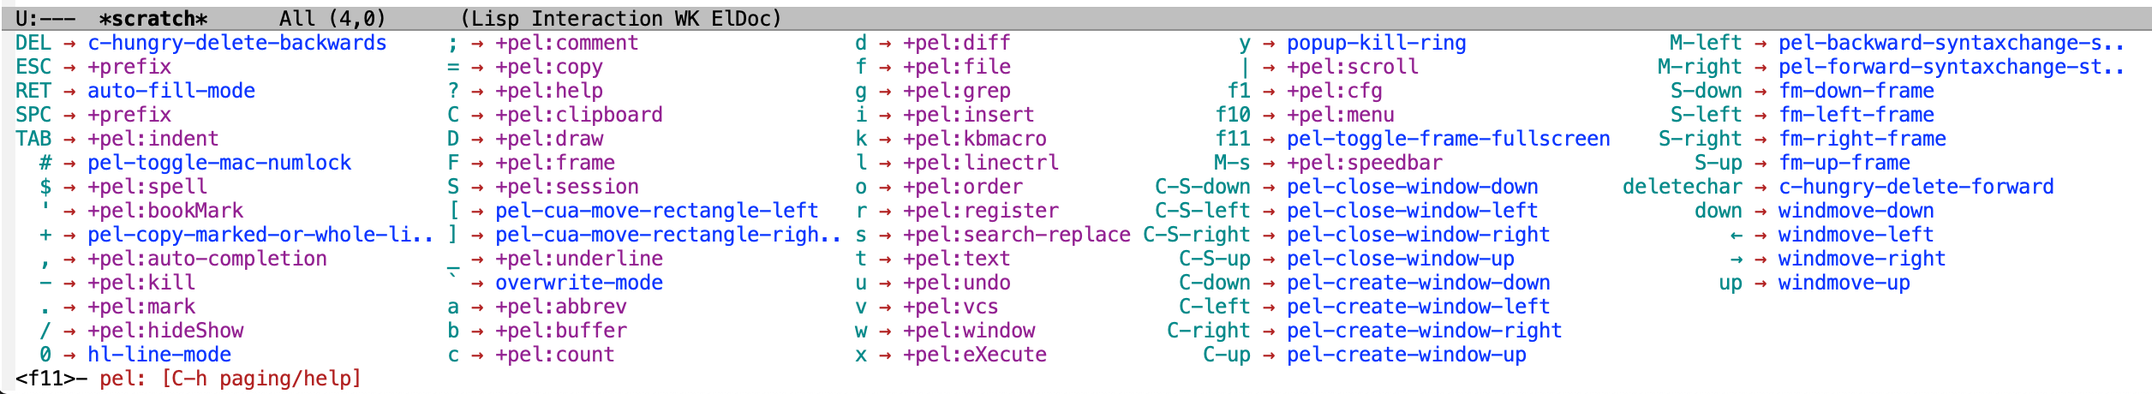
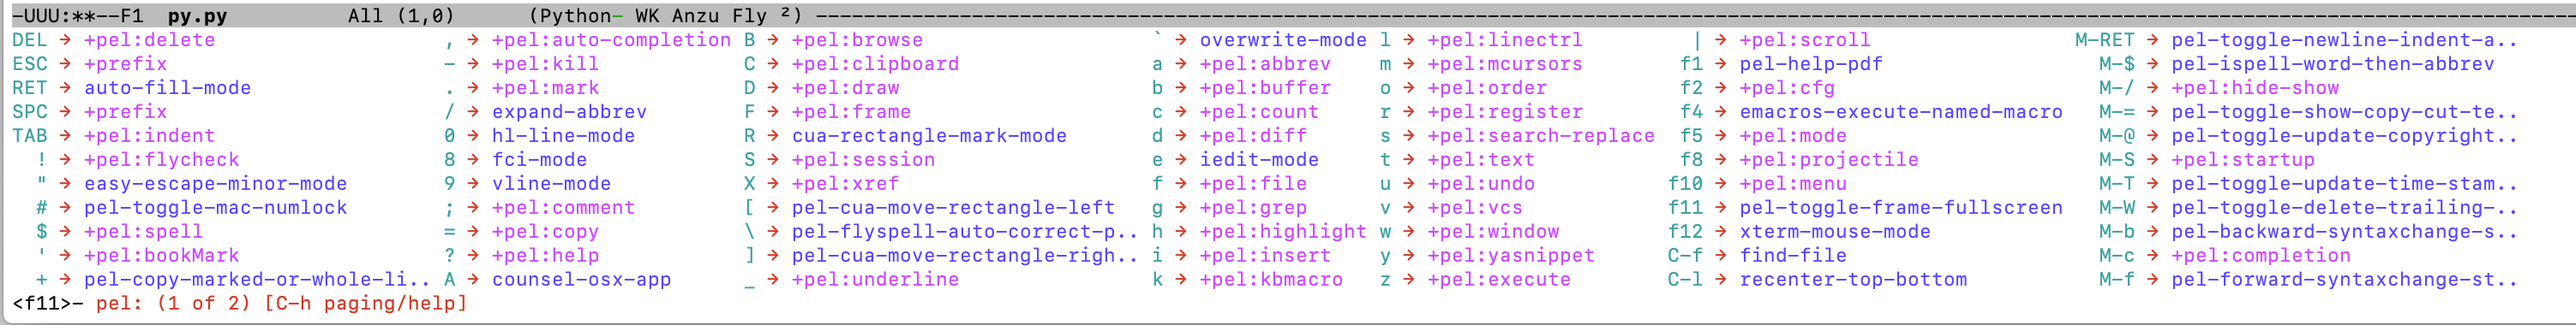
More info on PEL keys and help.  Scale some image.

Changed region(s): [[0.0, 0.0, 1.0, 1.0], [0.8073, 0.8395, 0.9626, 0.8974]]

diff --git a/doc/pel-manual.rst b/doc/pel-manual.rst
@@ -4,7 +4,7 @@ PEL -- Pragmatic Environment Library for Emacs
 
 :URL: https://github.com/pierre-rouleau/pel/blob/master/doc/pel-manual.rst
 :Project:  `PEL Project home page`_
-:Modified: 2021-08-04 09:23:49, updated by Pierre Rouleau.
+:Modified: 2021-08-04 11:58:40, updated by Pierre Rouleau.
 :License:
     Copyright (c) 2020, 2021 Pierre Rouleau <prouleau001@gmail.com>
 
@@ -1119,7 +1119,8 @@ customization tree and go over all features that PEL can activate.
 Here's a screen capture of that activity:
 
 
-.. image:: res/pel-start-customizing.png
+.. figure:: res/pel-start-customizing.png
+   :scale: 50 %
 
 
 Access PEL Customization Root
@@ -1131,7 +1132,8 @@ execute the ``pel-cfg`` command by typing the ``<f11> <f2> P !`` key sequence.
 When running Emacs in graphics mode, you'll see something like this:
 
 
-.. image:: res/pel-cfg.png
+.. figure:: res/pel-cfg.png
+   :scale: 50 %
 
 Emacs opens a buffer in ``Custom-mode`` and shows the top level of PEL
 configuration.  PEL has a large tree of customization groups, each holding
@@ -1141,7 +1143,8 @@ All PEL package control user options have a name that starts with ``pel-use-``
 and they are part of the ``pel-package-use`` customization group.  If you select
 that group Emacs will open it and you will see something like this:
 
-.. image:: res/pel-cfg-package.png
+.. figure:: res/pel-cfg-package.png
+   :scale: 50 %
 
 It shows the top level group for different types of packages, grouped by
 functionality type.
@@ -1160,7 +1163,8 @@ might be automatically downloaded when required.
 Note:  In Emacs Lisp the value **t**, is the symbol for truth and **nil** is
 used for the empty list and represent falsehood.
 
-.. image:: res/pel-cfg-all-use.png
+.. figure:: res/pel-cfg-all-use.png
+   :scale: 50 %
 
 Now you are done! 😀
 
@@ -1513,7 +1517,8 @@ With the above code in your init.el file, you can then execute the PEL command
 ``pel-show-init-time`` (or using the ``<M-S-f9>`` keystroke for it) Emacs will
 open 2 buffers and will show something like this:
 
-.. image:: res/pel-benchmark.png
+.. figure:: res/pel-benchmark.png
+   :scale: 50 %
 
 This is a snapshot taken on GNU Emacs running in terminal mode on a 2014 macOS
 computer with PEL running with 96 packages selected by customization giving 156
@@ -1522,7 +1527,8 @@ lines inside the benchmark-init buffers.
 Here's another snapshot taken after installing PEL on Mint 20 Linux running
 inside Parallels Desktop VM under macOS host:
 
-.. image:: res/pel-benchmark-mint20.png
+.. figure:: res/pel-benchmark-mint20.png
+   :scale: 50 %
 
 
 .. _example/init/init-4.el: ../example/init/init-4.el
@@ -1763,25 +1769,116 @@ Key Binding Help
 ================
 
 
-By default, PEL configuration activates the which-key_ external package so that
-when you hit a key prefix, like **F11** the list of comments and their key
-bindings will show up at the bottom of the Emacs screen, in what is called the
-echo area.  This, like everything PEL uses, can be turned off by customization
-(in this case it's the user option called ``pel-use-which-key``.
+**Using the which-keys package**
 
-You can also see the list of commands without it. For example,
-you can see PEL's use of the **F11** function key by hitting in sequence the
-**F11** key quickly followed by the **F1** key.  Emacs will list PEL's **F11**
-key bindings inside the ``*Help*`` buffer.
+By default, PEL configuration activates the which-key_ external package.
+When ``which-key-mode`` is active Emacs displays a list of key bindings after
+you type a `prefix key`_.
 
-You can also open the local copy of the  PDF *reference* sheet file that
-describes the commands and key bindings accessible through a given key prefix by
-using the **F1** key inside that key prefix.
-For example, as described in section `PEL Help Support`_, the PEL key prefix
+For example, after typing the **F11** key, wait a little and Emacs should
+display something like the following at the bottom of your Emacs window,
+called the echo area:
+
+.. figure:: res/pel-which-key.png
+   :scale: 30 %
+
+This lists all keys and further key prefixes. If the list is long as it's the
+case here type ``C-h`` to show a menu of possible actions and then you will see
+you can type ``n`` to display the next set of key bindings.  As soon as you
+hit a key related to a command the which-key window is closed.
+
+If you type command keys fast enough the which-key window does not show up.
+You can control which-key parameters through Emacs customization.  Use one of
+the following commands to access which-key customization group:
+
+- ``M-x customization-group RET which-key RET``
+- ``<f11> <f2> g which-key RET``
+- ``<f11> ? <f3> 5``
+
+If the which-key_ package is not enabled, you can enable it by setting the
+`pel-use-which-key`` user-option to **t**.  You can access it by opening the
+customization buffer for help by typing the ``<f11> ? <f2>`` key sequence.
+
+Once set, it must be activated: execute ``pel-init`` by typing ``M-x pel-init
+RET`` to re-initialize PEL.
+
+
+**Displaying keys without the which-keys package**
+
+You can also see the list of commands without using the which-keys
+package. For example, you can see PEL's use of the **F11** function key by
+hitting in sequence the **F11** key quickly followed by the **C-h** key.  Emacs
+will list PEL's **F11** key bindings inside the ``*Help*`` buffer.
+
+**Open the PEL PDF reference sheet**
+
+Open the local copy of the PDF *reference* sheet file that describes the
+commands and key bindings accessible through a given key prefix by using the
+**F1** key inside that key prefix.
+
+The following table is a partial list of the key sequences you can use to open
+a specific PEL PDF file.
+
+============================= ===================== ==========================
+Context                       Key sequence           Opened PEL PDF
+============================= ===================== ==========================
+From any buffer               ``<f11> <f1>``        `PEL Index PDF`_
+From any buffer               ``<f11> ? <f1>``      `Help PDF`_
+From any buffer               ``<f11> ! <f1>``      `Syntax Check PDF`_
+From any buffer               ``<f11> M-c <f1>``    `Input Completion PDF`_
+From any buffer               ``<f11> SPC c <f1>``  `C language PDF`_
+From a C buffer               ``<f12> <f1>``        `C language PDF`_
+From any buffer               ``<f11> SPC e <f1>``  `Erlang language PDF`_
+From a Erlang buffer          ``<f12> <f1>``        `Erlang language PDF`_
+============================= ===================== ==========================
+
+
+As listed above and inside the `PEL Help Support`_, the PEL key prefix
 for help and information commands is **pel:help** bound to the ``<f11> ?`` key
 sequence.  To open the `HELP`_ PDF file, type ``<f11> ? <f1>``.
-Not all PEL key prefixes have this key, but most have.
 
+Most PEL key prefixes have a ``<f1>`` key that opens the PDF describing the
+commands accessible through that key prefix.  This includes the PDF that
+describe support for a major mode like support for programming languages.  To
+access the PDF when the current buffer is using that major mode the keys
+sequence is always ``<f12> <f1>``.  If you want to access the PDF from a
+buffer that is not in the specific major mode type ``<f11> SPC`` and wait for
+the list of major modes to appear.  Then select the key for the major mode and
+then complete it with the ``<f1>`` key.
+
+
+**Open the PEL PDF files in the browser**
+
+By default, PEL opens the PEL PDF files using the PDF reader application
+available on your operating system, for example Preview in macOS.
+
+The PDF files are filled with hyperlinks to other PEL PDF files and various
+topics.  Navigating through these hyperlinks with such an application may be
+cumbersome.
+
+This is why PEL provides the ability to open PEL PDF files directly in
+your local browser.  There are several ways to do that:
+
+- Type an argument key (like ``C-u`` or ``M--``) just before typing the key
+  sequence. For example typing ``C-u <f11> <f1>`` or ``M-- <f11> <f1>`` opens
+  the `PEL Index PDF`_ raw PDF from Github inside your browser.
+- You can invert the meaning of the argument key presence such that typing
+  ``<f11> <f1>`` opens the Github file in your browser and ``C-u <f11> <f1>``
+  opens your local PDF file.  For that set the ``pel-flip-help-pdf-arg``
+  user-option to **t**.
+  You can access its customization buffer with ``<f11> ? <f2>``.
+
+
+For the best user experience use a web browser that can render PDF
+files inline, like the excellent Mozilla Firefox [#firefox]_ browser version
+78 or later.
+
+To force PEL to use Firefox even if your default web browser is something
+else, set the ``pel-browser-used`` user-option to ``'firefox``.
+You can access its customization buffer with ``<f11> ? <f2>``.
+
+
+.. _prefix key: https://www.gnu.org/software/emacs/manual/html_node/elisp/Prefix-Keys.html
 
 .. -----------------------------------------------------------------------------
 
@@ -5431,6 +5528,7 @@ Emacs packages and more tables will describe how to use them.
 .. _Highlight:                                https://raw.githubusercontent.com/pierre-rouleau/pel/master/doc/pdf/highlight.pdf
 .. _Hooks:                                    https://raw.githubusercontent.com/pierre-rouleau/pel/master/doc/pdf/hooks.pdf
 .. _Indentation:                              https://raw.githubusercontent.com/pierre-rouleau/pel/master/doc/pdf/indentation.pdf
+.. _Input Completion PDF:
 .. _Input Completion:                         https://raw.githubusercontent.com/pierre-rouleau/pel/master/doc/pdf/completion-input.pdf
 .. _Input Method:                             https://raw.githubusercontent.com/pierre-rouleau/pel/master/doc/pdf/input-method.pdf
 .. _Inserting Text:                           https://raw.githubusercontent.com/pierre-rouleau/pel/master/doc/pdf/inserting-text.pdf
@@ -5458,6 +5556,7 @@ Emacs packages and more tables will describe how to use them.
 .. _Sorting:                                  https://raw.githubusercontent.com/pierre-rouleau/pel/master/doc/pdf/sorting.pdf
 .. _Speedbar:                                 https://raw.githubusercontent.com/pierre-rouleau/pel/master/doc/pdf/speedbar.pdf
 .. _Spell Checking:                           https://raw.githubusercontent.com/pierre-rouleau/pel/master/doc/pdf/spell-checking.pdf
+.. _Syntax Check PDF:
 .. _Syntax Check:                             https://raw.githubusercontent.com/pierre-rouleau/pel/master/doc/pdf/syntax-checking.pdf
 .. _Templates:                                https://raw.githubusercontent.com/pierre-rouleau/pel/master/doc/pdf/templates.pdf
 .. _Text-modes:                               https://raw.githubusercontent.com/pierre-rouleau/pel/master/doc/pdf/text-modes.pdf
@@ -5480,14 +5579,16 @@ Emacs packages and more tables will describe how to use them.
 .. _Modifier Keys:                            https://raw.githubusercontent.com/pierre-rouleau/pel/master/doc/pdf/modifier-keys.pdf
 .. _Apple-Script:                             https://raw.githubusercontent.com/pierre-rouleau/pel/master/doc/pdf/pl-applescript.pdf
 ..  C++
-..  C
+.. _C Language PDF:                           https://raw.githubusercontent.com/pierre-rouleau/pel/master/doc/pdf/pl-c.pdf
+
 ..  Common Lisp
 .. _Emacs Lisp Types:                         https://raw.githubusercontent.com/pierre-rouleau/pel/master/doc/pdf/emacs-lisp-types.pdf
 .. _Lispy mode support:                       https://raw.githubusercontent.com/pierre-rouleau/pel/master/doc/pdf/plm-lispy.pdf
 ..  D
 ..  elixir
 ..  Emacs Lisp
-..  erlang
+..  _Erlang Language PDF:                     https://raw.githubusercontent.com/pierre-rouleau/pel/master/doc/pdf/pl-erlang.pdf
+
 ..  forth
 ..  python
 ..  REXX
@@ -6383,7 +6484,7 @@ when running Emacs 27.1 and later versions.
 .. _visual-regexp:             https://melpa.org/#/visual-regexp
 .. _visual-regexp-steroids:    https://melpa.org/#/visual-regexp-steroids
 .. _vterm:                     https://melpa.org/#/vterm
-.. _which-key:                 https://elpa.gnu.org/packages/which-key.html
+.. _which-key:                 https://github.com/justbur/emacs-which-key#readme
 .. _xr:                        https://elpa.gnu.org/packages/xr.html
 .. _yasnippet:                 https://melpa.org/#/yasnippet
 .. _yasnippet-snippets:        https://melpa.org/#/yasnippet-snippets
